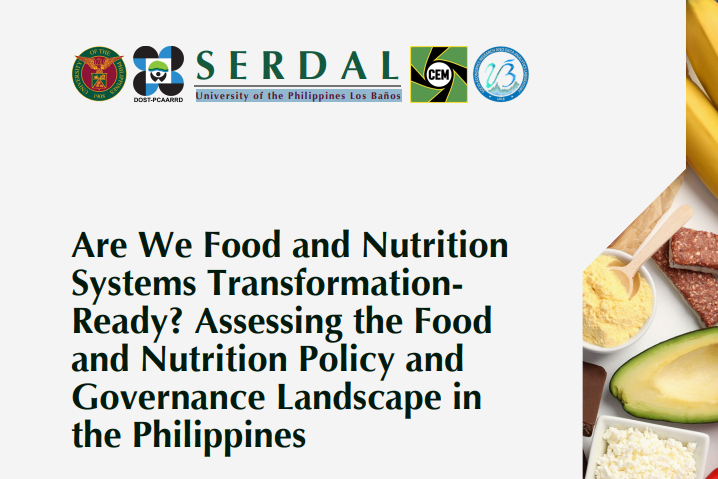
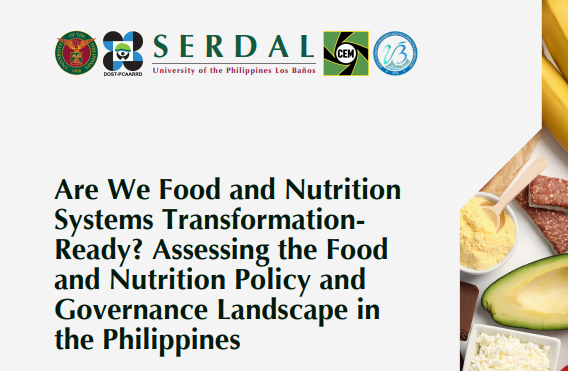
Update
Update

diff --git a/src/components/SERDAL/Resources/Training/trainingData.tsx b/src/components/SERDAL/Resources/Training/trainingData.tsx
@@ -38,6 +38,16 @@ import StrategicForesightandPlanning2 from '../Training/Event Photos/Strategic F
 import DataManagementforCDA1 from '../Training/Event Photos/CDA Data Management 1.jpg'
 import DataManagementforCDA2 from '../Training/Event Photos/CDA Data Management 2.jpg'
 
+import VCACover from '../Training/Event Photos/VCA_Cover.png'
+import VCA1 from '../Training/Event Photos/VCA1.png'
+import VCA2 from '../Training/Event Photos/VCA2.png'
+
+import SERDANCover from '../Training/Event Photos/SERDAN.png'
+import SERDAN1 from '../Training/Event Photos/SERDAN1.jpg'
+import SERDAN2 from '../Training/Event Photos/SERDAN2.jpg'
+import SERDAN3 from '../Training/Event Photos/SERDAN3.jpg'
+
+
 export interface TrainingData {
     id: number;
     title: string;
@@ -241,6 +251,46 @@ const trainingData: TrainingData[] = [
               ),
             img: DataManagementforCDA,
             eventPhotos: [DataManagementforCDA1,DataManagementforCDA2],
+        },
+        {
+            id: 9,
+            title: "UPLB SERDAL’s Value Chain Analysis Training for the Department of Agriculture – Bureau of Animal Industry: Enhancing Honey Value Chain Competitiveness",
+            info:"From August 11-13, 2025, UPLB SERDAL conducted a Value Chain Analysis Training for the Department of Agriculture – Bureau of Animal Industry. The training focused on strengthening participants’ understanding of the honey value chain, covering key topics such as value chain analysis concepts, development frameworks, analytical tools, and insights from the Beeconomy Initiative and Beeconomic Success.",
+            summary: (
+                <div>
+                  <p>
+                  From August 11-13, 2025, UPLB SERDAL conducted a Value Chain Analysis Training for the Department of Agriculture – Bureau of Animal Industry. The training focused on strengthening participants’ understanding of the honey value chain, covering key topics such as value chain analysis concepts, development frameworks, analytical tools, and insights from the Beeconomy Initiative and Beeconomic Success.,                    
+                  </p>
+                  <p className="mt-3">
+                   The training was enriched by seasoned VCA experts from CEM, Dr. Julieta A. Delos Reyes and Asst. Prof. Paul Joseph B. Ramirez, whose expertise guided participants through the intricacies of value chain analysis. Adding a special buzz to the event was Dr. Cleofas R. Cervancia, fondly known as the Queen Bee, along with Ms. Jessica B. Baroga-Barbecho, both from the UPLB Bee Program dedicated to advancing bee-related research and industry development.
+                  </p>
+                  <p className="mt-3">
+                  The training enabled participants to gain a deeper understanding of how value is created, added, and distributed across the honey value chain. It also supported them in identifying gaps, improving efficiency, and developing strategies that enhance competitiveness and benefit all stakeholders.
+                  </p>
+                </div>
+              ),
+            img: VCACover,
+            eventPhotos: [VCA1,VCA2],
+        },
+        {
+            id: 10,
+            title: "UPLB SERDAL’s Proposal Writing Workshop: Improvement of Strategies for the Harmonized Capacity Building and Data Repository of SERDAN",
+            info:"From October 20-22, 2025, UPLB SERDAL, in partnership with DOST-PCAARRD, conducted the SERDAN Workshop aimed at enhancing strategies for harmonizing the network’s capacity-building initiatives and data repository systems. The three-day workshop guided participants through the key components of project proposal development, including reviewing action plans, identifying collaboration opportunities, refining project objectives, outlining activities and timelines, planning budgets, and defining expected outputs.",
+            summary: (
+                <div>
+                  <p>
+                  From October 20-22, 2025, UPLB SERDAL, in partnership with DOST-PCAARRD, conducted the SERDAN Workshop aimed at enhancing strategies for harmonizing the network’s capacity-building initiatives and data repository systems. The three-day workshop guided participants through the key components of project proposal development, including reviewing action plans, identifying collaboration opportunities, refining project objectives, outlining activities and timelines, planning budgets, and defining expected outputs.                    
+                  </p>
+                  <p className="mt-3">
+                   The workshop gathered representatives from the Socio-Economics Research and Data Analytics Network, with participants from Central Luzon State University, Bicol University, Visayas State University, University of Southeastern Philippines, Western Mindanao State University, and University of Southern Mindanao.
+                  </p>
+                  <p className="mt-3">
+                  Participants were able to develop two concept notes—one on capacity building and another on data repository development—by collectively reviewing existing initiatives, identifying gaps, and formulating approaches for strengthened collaboration and standardization across the network. This effort supports the development of harmonized strategies that enhance coherence, efficiency, and shared direction within the network.
+                  </p>
+                </div>
+              ),
+            img: SERDANCover,
+            eventPhotos: [SERDAN1,SERDAN2, SERDAN3],
         },
         
 

diff --git a/src/components/SERDAL/Training/traininginfo.tsx b/src/components/SERDAL/Training/traininginfo.tsx
@@ -17,47 +17,13 @@ function TrainingInfo ()
     setDataID(Number(postId));
   },[]);
 
-
-  const truncate = (title: string): string => {
-    if (title.length > 300) {
-      return `${title.slice(0, 300 - 10)}...`;
-    }
-    return title;
-  };
-
     return(
         <>
         <div className="w-full">
-            {/* <div className="text-3xl font-bold text-primary text-center py-10">
-                <motion.h2
-                        initial={{ y: -20, scale:1.5 }}
-                        animate={{ y: 0, scale: 1 }}   
-                        transition={{
-                        type: 'spring',
-                        stiffness: 300,
-                        damping: 15,
-                        duration: 2,
-                        }}
-                    >
-                        Trainings
-                    </motion.h2>
-
-                    <motion.div
-                        className="border-b-2 border-primary mx-20 mt-5"
-                        initial={{ scaleX: 0 }}
-                        animate={{ scaleX: 1 }}
-                        transition={{ duration: 1, ease: 'easeInOut' }}
-                        style={{ originX: 0.5 }}  // This sets the animation to grow from the center
-                    ></motion.div>
-                </div> */}
-
             <div>
                 {   
                 data.filter(x => x.id == dataID ).map((t) => (
-                    <div
-                    key={t.id}
-                    className={`flex flex-col items-center justify-center max-h-full py-10 px-6 md:px-[100px]`}
-                    >
+                    <div  key={t.id} className={`flex flex-col items-center justify-center max-h-full py-10 px-6 md:px-[100px]`} >
                         
                         <div>
                             <img src={t.img} alt={t.title} className="md:w-[1000px] h-auto object-contain py-5"/>
@@ -67,20 +33,15 @@ function TrainingInfo ()
 
                         <div className="text-md md:text-lg pb-5 text-justify md:w-[1000px]">{t.summary}</div>
                         <div className="flex">
-                        {
-                            
-                            t?.eventPhotos.map((photo) => (
-                                <div>
+                        {                           
+                            t?.eventPhotos.map((photo, index) => (
+                                <div key={`img-${index}`}>
                                     <ImagePreview src={photo} alt={t.title} className="md:w-[300px] h-auto object-contain py-5 px-2"/>
                                 </div>
-                            ))
-                            
+                            ))                          
                         }
-                        </div>
-                        
-
+                        </div>                 
                     </div>
-
                 ))          
                 }
             </div>

diff --git a/src/components/SERDAL/QuickResponse/QuickResponseList.tsx b/src/components/SERDAL/QuickResponse/QuickResponseList.tsx
@@ -41,7 +41,7 @@ const QuickResponseList: React.FC<QuickResponseListProps> = ({data}) =>{
       <> 
         <div className="grid grid-cols-1 sm:grid-cols-2 md:grid-cols-3 gap-3 m-2">
           {data.map((item) => (
-            <div
+            <div id={`QR-${item.id}`} key={item.id}
               className="group w-full border border-gray-300 rounded-sm overflow-hidden shadow-sm hover:shadow-lg hover:bg-gray-200 transition-shadow duration-300"
             >
                <Link to={`/QuickResponse/Info/${item.id}`}>
